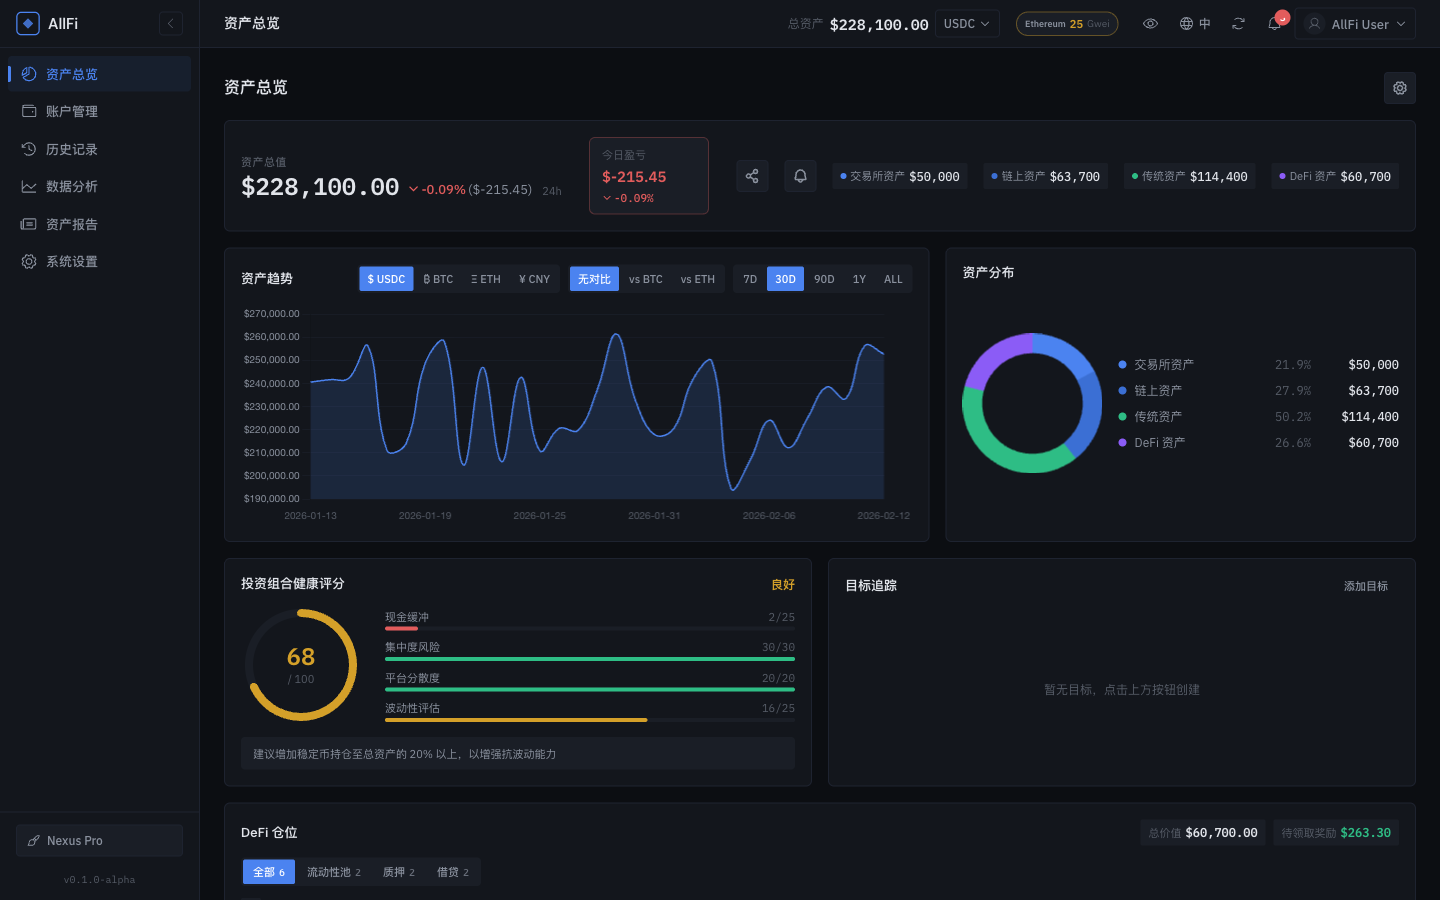
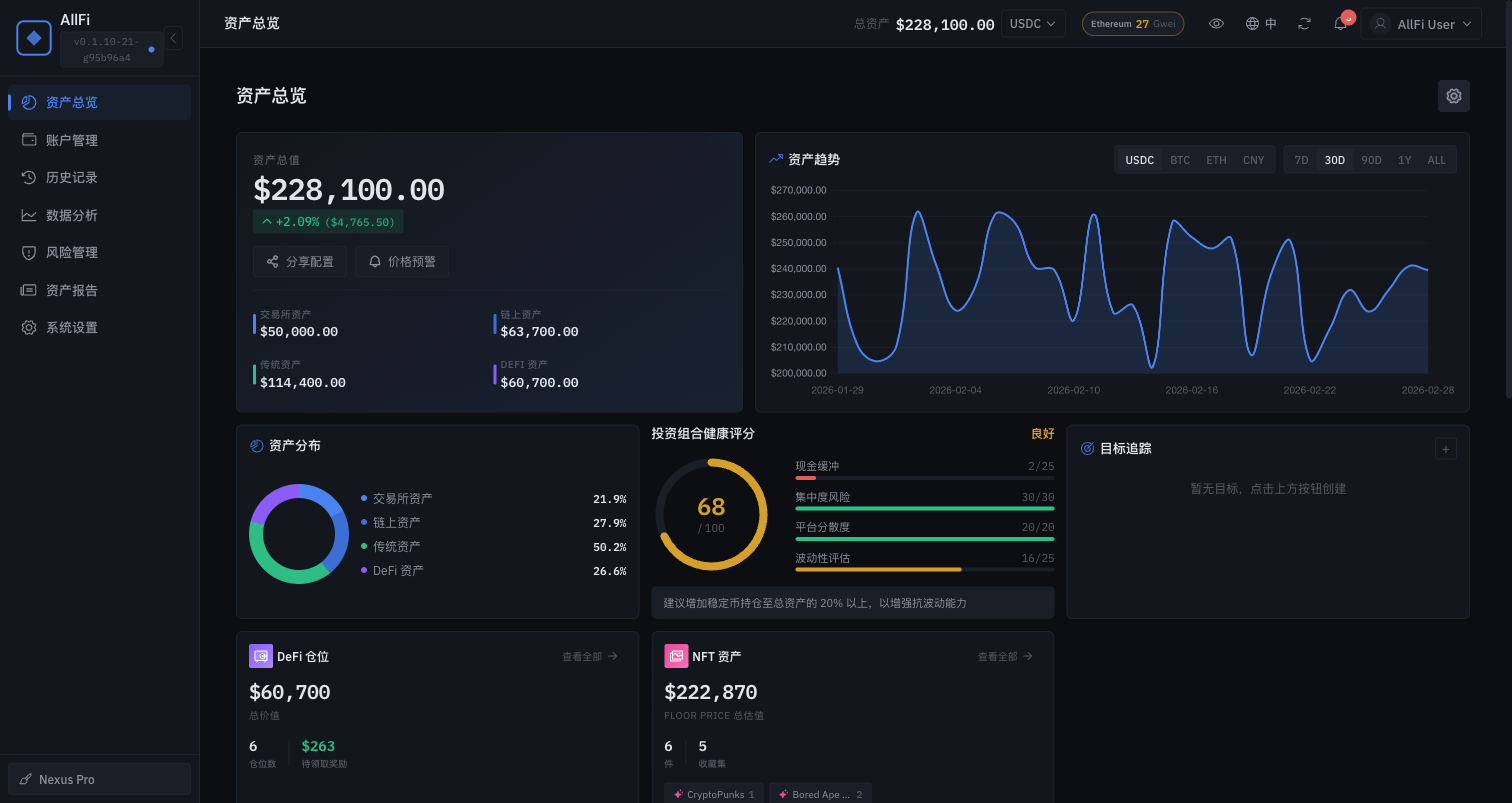
docs: 更新 README 添加 GIF 演示图和新页面截图
- 添加 allfi-demo.gif 演示动图
- 更新 README.md 和 README.en.md 界面预览部分
- 添加风险管理、DeFi、NFT 等新页面截图
- 优化截图展示布局

diff --git a/webapp/src/api/index.js b/webapp/src/api/index.js
@@ -5,6 +5,7 @@
 
 import { get, post, put, del, healthCheck, ApiError } from "./client.js";
 import * as mockData from "./mockData.js";
+import { mockGoals } from "../data/mockGoalData.js";
 
 // 是否使用 Mock 数据（后端未就绪时使用）
 // 可通过环境变量控制：VITE_USE_MOCK_API=true
@@ -24,7 +25,7 @@ export const authService = {
   async getStatus() {
     if (USE_MOCK) {
       await simulateDelay(200);
-      return { pin_set: false };
+      return { pin_set: true, password_type: "pin" };
     }
     return get("/auth/status");
   },
@@ -1922,12 +1923,16 @@ export const goalService = {
   async getGoals() {
     if (USE_MOCK) {
       await simulateDelay(200);
-      try {
-        const saved = localStorage.getItem("allfi-goals");
-        return saved ? JSON.parse(saved) : [];
-      } catch {
-        return [];
-      }
+      // 返回 mock 目标数据
+      return mockGoals.map((g) => ({
+        id: g.id,
+        title: g.title,
+        type: g.type,
+        targetValue: g.targetValue,
+        currency: g.currency,
+        deadline: g.deadline,
+        createdAt: g.createdAt,
+      }));
     }
     const result = await get("/goals");
     const goals = Array.isArray(result) ? result : result.goals || [];

diff --git a/webapp/src/data/mockGoalData.js b/webapp/src/data/mockGoalData.js
@@ -1,0 +1,36 @@
+/**
+ * 目标追踪 Mock 数据
+ * 用于开发和演示
+ */
+
+export const mockGoals = [
+  {
+    id: '1',
+    title: '总资产达到 $300,000',
+    type: 'asset_value',
+    targetValue: 300000,
+    currency: 'USDC',
+    deadline: '2026-12-31',
+    createdAt: '2026-01-15T10:00:00Z',
+  },
+  {
+    id: '2',
+    title: '持有 1 个 BTC',
+    type: 'holding_amount',
+    targetValue: 1,
+    currency: 'BTC',
+    deadline: '2026-06-30',
+    createdAt: '2026-02-01T08:00:00Z',
+  },
+  {
+    id: '3',
+    title: '年化收益率达到 20%',
+    type: 'return_rate',
+    targetValue: 20,
+    currency: 'USDC',
+    deadline: null,
+    createdAt: '2026-02-10T14:00:00Z',
+  },
+];
+
+export default mockGoals;

diff --git a/README.md b/README.md
@@ -67,6 +67,12 @@ AllFi 为此而生。它不是一个 SaaS 服务，而是一个**完全开源、
 
 ## 界面预览
 
+### 演示动图
+
+![AllFi 演示](resource/allfi-demo.gif)
+
+> 快速浏览 AllFi 的核心功能页面
+
 ### 资产总览（Nexus Pro 默认主题）
 
 ![资产总览 - 仪表盘](resource/02-dashboard-viewport.png)
@@ -94,6 +100,16 @@ AllFi 为此而生。它不是一个 SaaS 服务，而是一个**完全开源、
     <td width="50%">
       <img src="resource/13-analytics.png" alt="数据分析">
       <br><b>数据分析</b> — 每日盈亏、费用分析、归因分析、基准对比
+    </td>
+  </tr>
+  <tr valign="top">
+    <td width="50%">
+      <img src="resource/24-risk.png" alt="风险管理">
+      <br><b>风险管理</b> — 波动率、夏普比率、最大回撤、VaR 等风险指标
+    </td>
+    <td width="50%">
+      <img src="resource/25-defi.png" alt="DeFi 仓位">
+      <br><b>DeFi 仓位</b> — Lido、Aave、Compound 等协议持仓一览
     </td>
   </tr>
 </table>

diff --git a/README.en.md b/README.en.md
@@ -66,6 +66,12 @@ With AllFi, you can activate **Privacy Mode (Ctrl+H)** with one click. It blurs 
 
 ## Interface Preview
 
+### Demo GIF
+
+![AllFi Demo](resource/allfi-demo.gif)
+
+> Quick tour of AllFi's core feature pages
+
 ### Asset Dashboard (Nexus Pro Theme)
 
 ![Asset Dashboard](resource/02-dashboard-viewport.png)
@@ -93,6 +99,16 @@ With AllFi, you can activate **Privacy Mode (Ctrl+H)** with one click. It blurs 
     <td width="50%">
       <img src="resource/13-analytics.png" alt="Analytics">
       <br><b>Analytics</b> — Daily PnL, fee analysis, attribution, and benchmark tracking
+    </td>
+  </tr>
+  <tr valign="top">
+    <td width="50%">
+      <img src="resource/24-risk.png" alt="Risk Management">
+      <br><b>Risk Management</b> — Volatility, Sharpe ratio, max drawdown, VaR metrics
+    </td>
+    <td width="50%">
+      <img src="resource/25-defi.png" alt="DeFi Positions">
+      <br><b>DeFi Positions</b> — Lido, Aave, Compound and other protocol holdings
     </td>
   </tr>
 </table>
